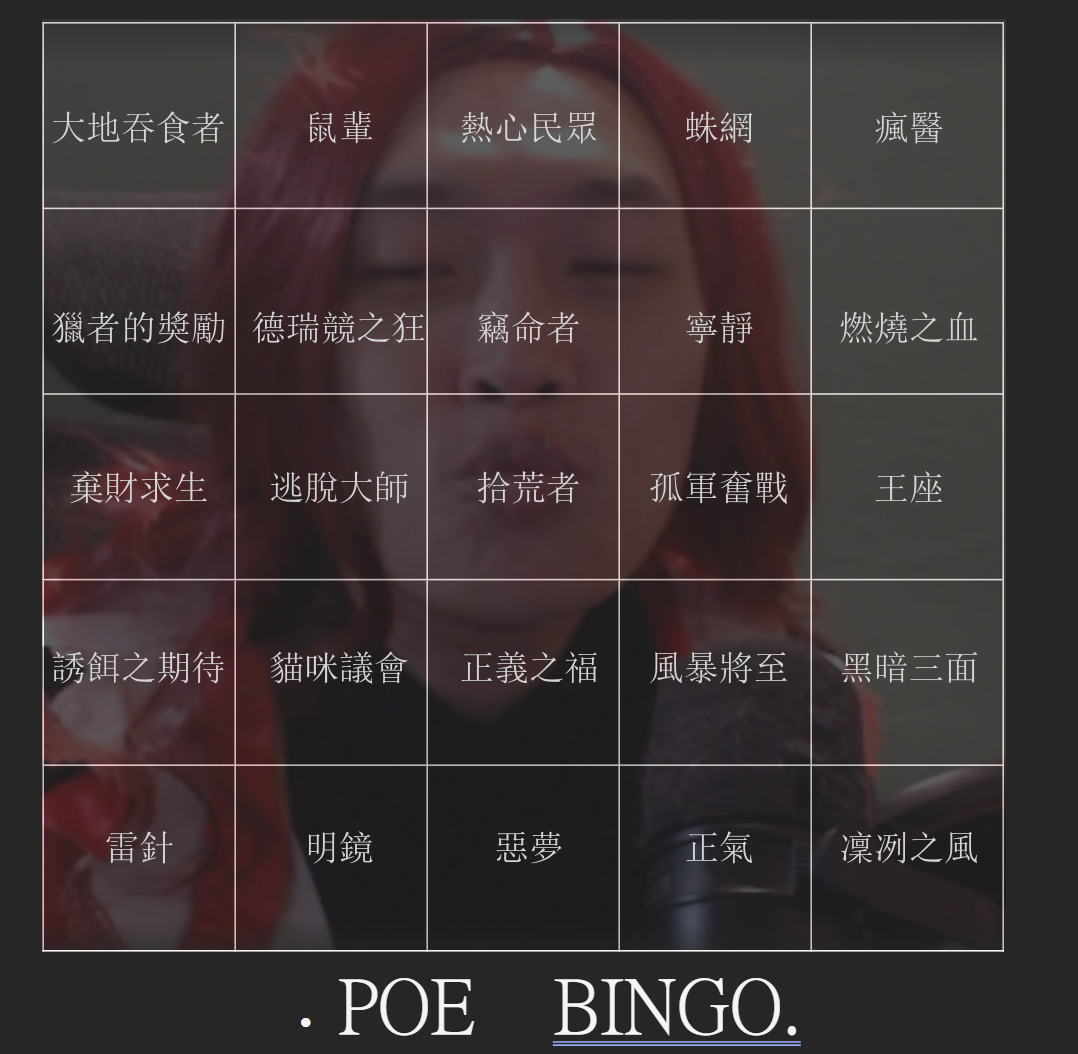
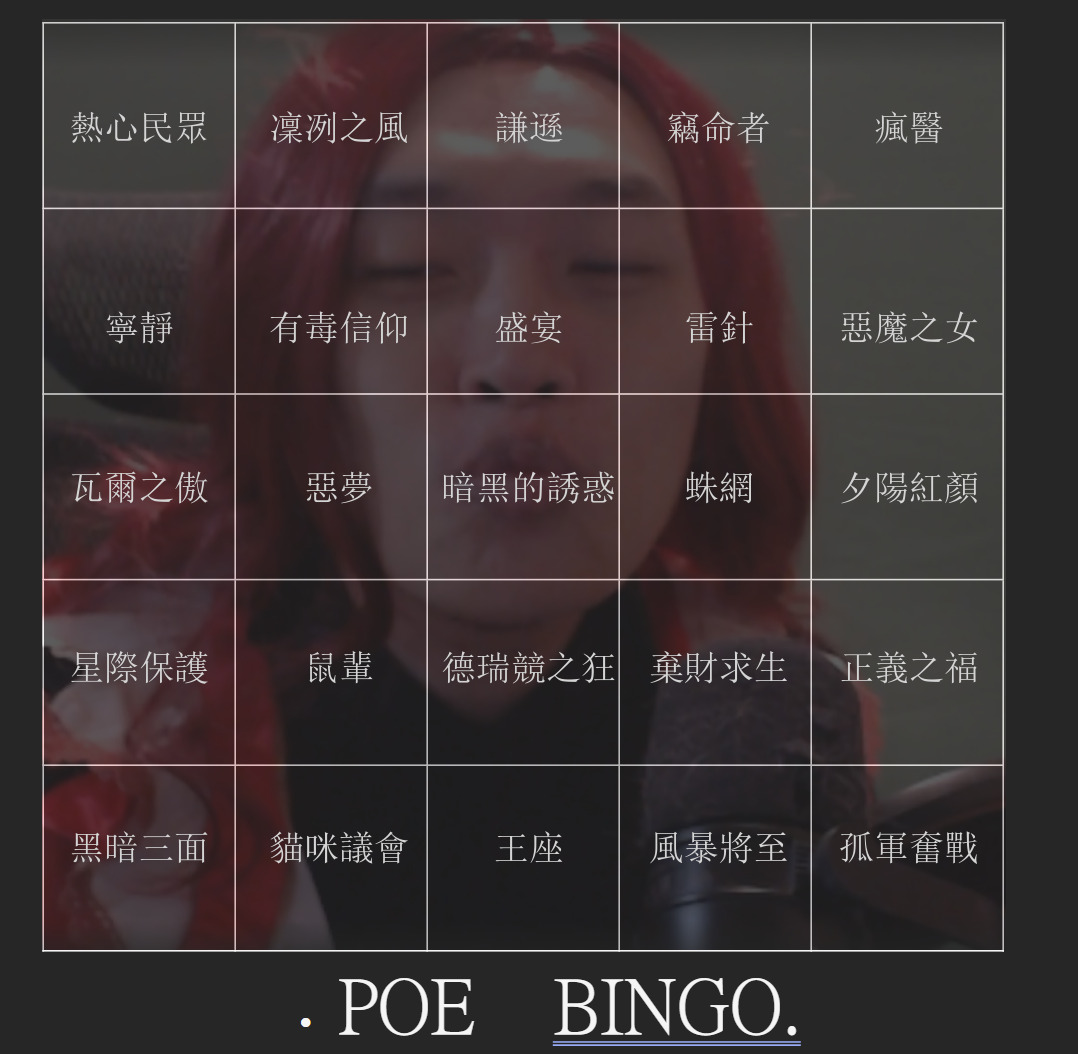
testing self_selected ver1

diff --git a/app/controllers/bingos_controller.rb b/app/controllers/bingos_controller.rb
@@ -1,10 +1,71 @@
 class BingosController < ApplicationController
+  # before_action :clean_params, only: [:index, :create]
+
   require "rmagick"
 
   def index
   end
 
+  # def create
+  #   print clean_params
+
+  #   @card_ids = clean_params
+  #   render :action => :index
+  # end
+
   def random
+  end
+
+  def self_selected
+    if params[:card_ids]
+      @card_ids = clean_params
+    else
+      @card_ids = []
+    end
+
+    if @card_ids.any? && @card_ids.length <= 25
+      images_path = "public/images"
+      @file_name = "self_selected.jpg"
+      file_path = images_path + "/" + @file_name
+
+      if File.exist? file_path
+        File.delete file_path 
+      end
+
+      img = Magick::Image.read("lib/sample_images/bingo.png").first
+
+      text = Magick::Draw.new
+      text.font = "public/images/simsun.ttc"
+      text.pointsize = 35
+      text.gravity = Magick::CenterGravity
+
+      x_axis = [ -400, -200, -10, 180, 370 ]
+      y_axis = [ -400, -200, -40, 140, 320 ]
+      x = 0
+      y = 0
+      @card_ids.each do |card|
+        if card.length > 5
+          text.pointsize = 20
+        else
+          text.pointsize = 35
+        end
+
+        text.annotate(img, 0,0,x_axis[x] ,y_axis[y], card) { |options|
+          options.fill = 'gray83'
+        }
+
+        x += 1
+        
+        if (x==5)
+          x = 0
+          y += 1
+        end 
+      end
+
+      self_selected = img.scale(1)
+      @path = "/images/" + @file_name
+      self_selected.write file_path
+    end
   end
 
   def generate
@@ -52,4 +113,9 @@ class BingosController < ApplicationController
     @path = "/images/" + @file_name
     thumb.write file_path
   end
+
+  private
+    def clean_params
+      params.require(:card_ids)
+    end
 end

diff --git a/config/routes.rb b/config/routes.rb
@@ -3,6 +3,8 @@ Rails.application.routes.draw do
     collection do
       get :random
       get :generate
+      get :self_selected
+      post :self_selected
     end
   end
   root "home#index"
